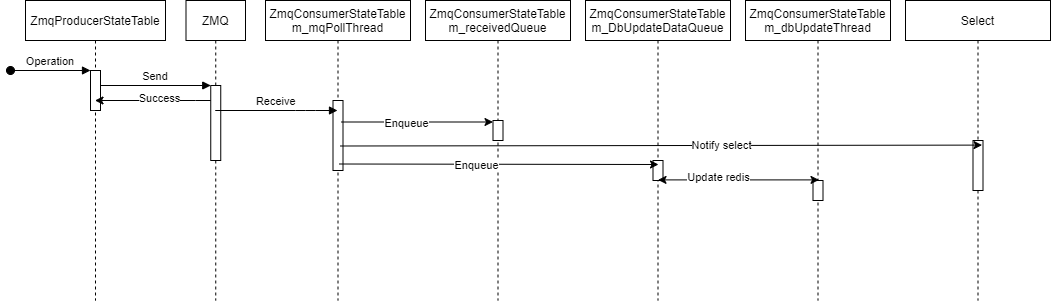
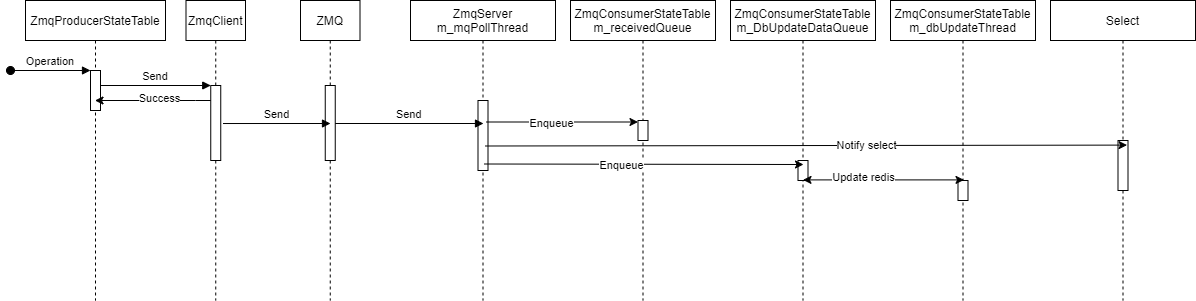
Update design document

diff --git a/doc/sonic-swss-common/ZMQ producer-consumer state table design.md b/doc/sonic-swss-common/ZMQ producer-consumer state table design.md
@@ -13,7 +13,25 @@
   * [ZMQ](#zmq)
 
 # 1 Functional Requirement
-## 1.1 Supported operations
+## 1.1 ZMQ client supported operations
+ - ZmqClient will send message to ZMQ.
+ - ZmqClient can reuse by multiple ZmqProducerStateTable instance.
+ - ZmqClient sendMsg() method is thread safe async method, will return immediately, ZMQ lib support async operation.
+ - ZmqClient will retry when send not success:
+    - When ZMQ socket connection broken, send API will failed and need re-connect and send again.
+    - When ZMQ send queue is full, send API will failed and need retry later.
+    - When a signal come, ZMQ send API will failed, need retry again.
+ - ZmqClient will throw exception after retry failed.
+ - ZmqClient will throw exception when ZMQ connection break.
+## 1.2 ZMQ server supported operations
+ - ZmqServer will start a receive thread and receive message from ZMQ.
+ - ZmqServer can reuse by multiple ZmqConsumerStateTable instance.
+ - When ZmqServer receive message from ZMQ, ZmqServer will:
+    - De-serialize received message.
+    - Find ZmqMessageHandler by message content.
+    - Dispatch message to ZmqMessageHandler.
+## 1.3 ZMQ producer state table supported operations
+ - Producer table will use ZmqClient to send message.
  - Should support following operations.
    - Set:
         void set(const std::string &key,
@@ -28,19 +46,9 @@
         void set(const std::vector<KeyOpFieldsValuesTuple>& values)
    - Batch Delete:
         void del(const std::vector<std::string>& keys)
-## 1.2 ZMQ producer state table support async operation
- - Producer table will return immediately after send operation to ZMQ.
- - Producer table will retry when send not success:
-    - When ZMQ socket connection broken, send API will failed and need re-connect and send again.
-    - When ZMQ send queue is full, send API will failed and need retry later.
-    - When a signal come, ZMQ send API will failed, need retry again.
- - Producer table will throw exception after retry failed.
-## 1.3 ZMQ consumer state table support async operation
- - Consumer will start a receive thread and receive message from ZMQ.
- - When consumer table receive message from ZMQ, consumer table will:
-    - De-serialize received message and append operation to following queue:
-      - Received operation queue
-      - Update redis database queue
+## 1.3 ZMQ consumer state table supported operations
+ - Consumer implement ZmqMessageHandler interface.
+ - When consumer table receive message from ZmqServer, consumer table will:
     - Send notification to select to handle received operation.
     - Send notification to DB update thread for write received operation to database.
       This is a configurable feature, could turn on/off this feature in use cases requiring less memory consumption or higher performance.
@@ -52,21 +60,22 @@
  - Sequence:
 <img src="./zmq-sequence.png" style="zoom:100%;" />
  - Call ZmqProducerStateTable API.
- - ZmqProducerStateTable will serialize operation and send to ZMQ.
+ - ZmqProducerStateTable will send message with ZmqClient.
+ - ZmqClient will serialize operation and send to ZMQ.
    - Return when send success.
    - Retry when send failed.
    - Throw exception when retry failed.
- - ZmqConsumerStateTable Side:
+ - ZmqServer Side:
    - m_mqPollThread:
    - Receive message from ZMQ.
-   - De-serialize received message then:
-     - Enqueue to m_receiveQueue
-     - Enqueue to m_DbUpdateDataQueue
+   - De-serialize received message then dispatch message to ZmqConsumerStateTable.
+   - Continue receive next message.
+ - ZmqConsumerStateTable Side:
+   - Receive message from ZmqServer then:
      - Notify select event
      - Notify m_dbUpdateThread
-   - Continue receive next message.
    - m_dbUpdateThread:
-   - Update data from m_DbUpdateDataQueue to Redis database.
+     - Update data from m_DbUpdateDataQueue to Redis database.
  - Select will pop operations from m_receivedQueue with ZmqConsumerStateTable::pops().
 
 # 3 References
